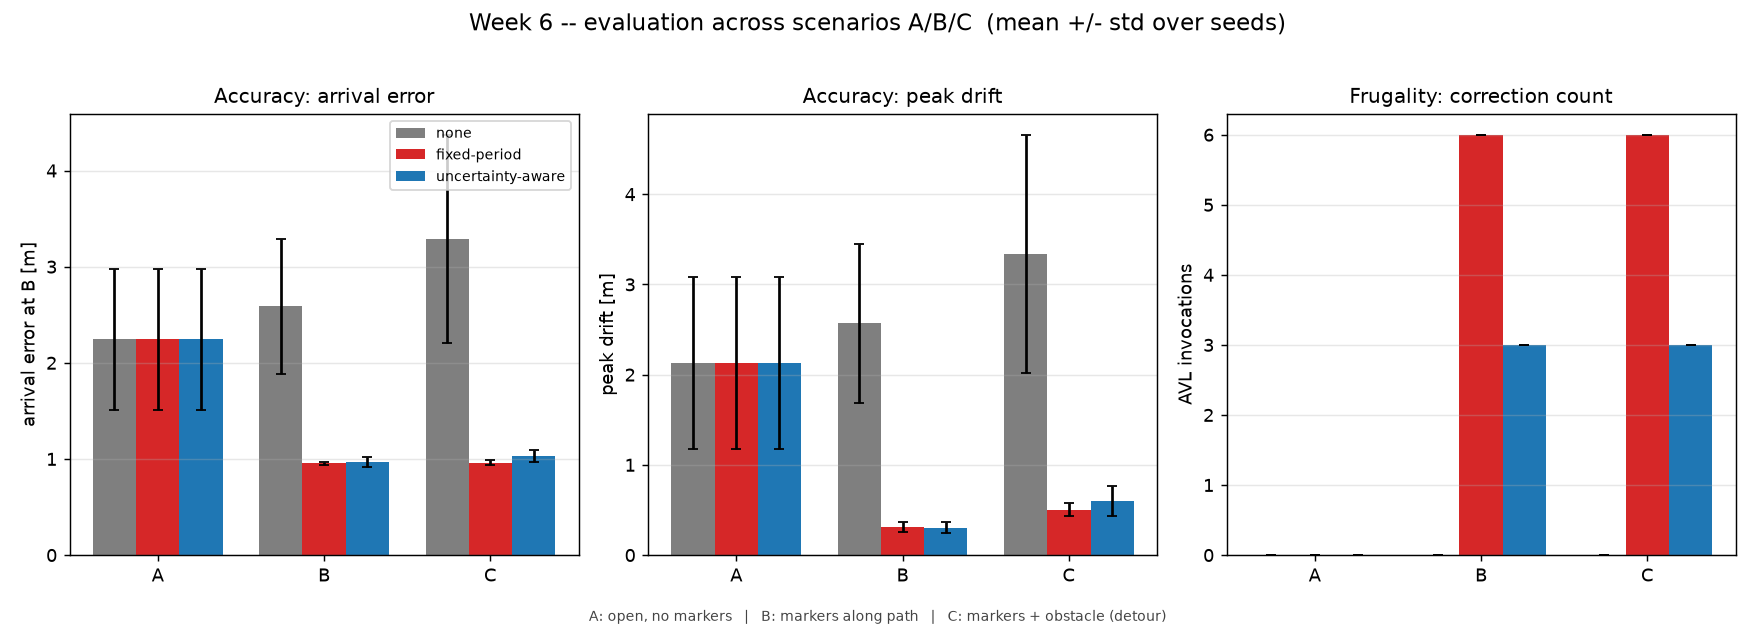
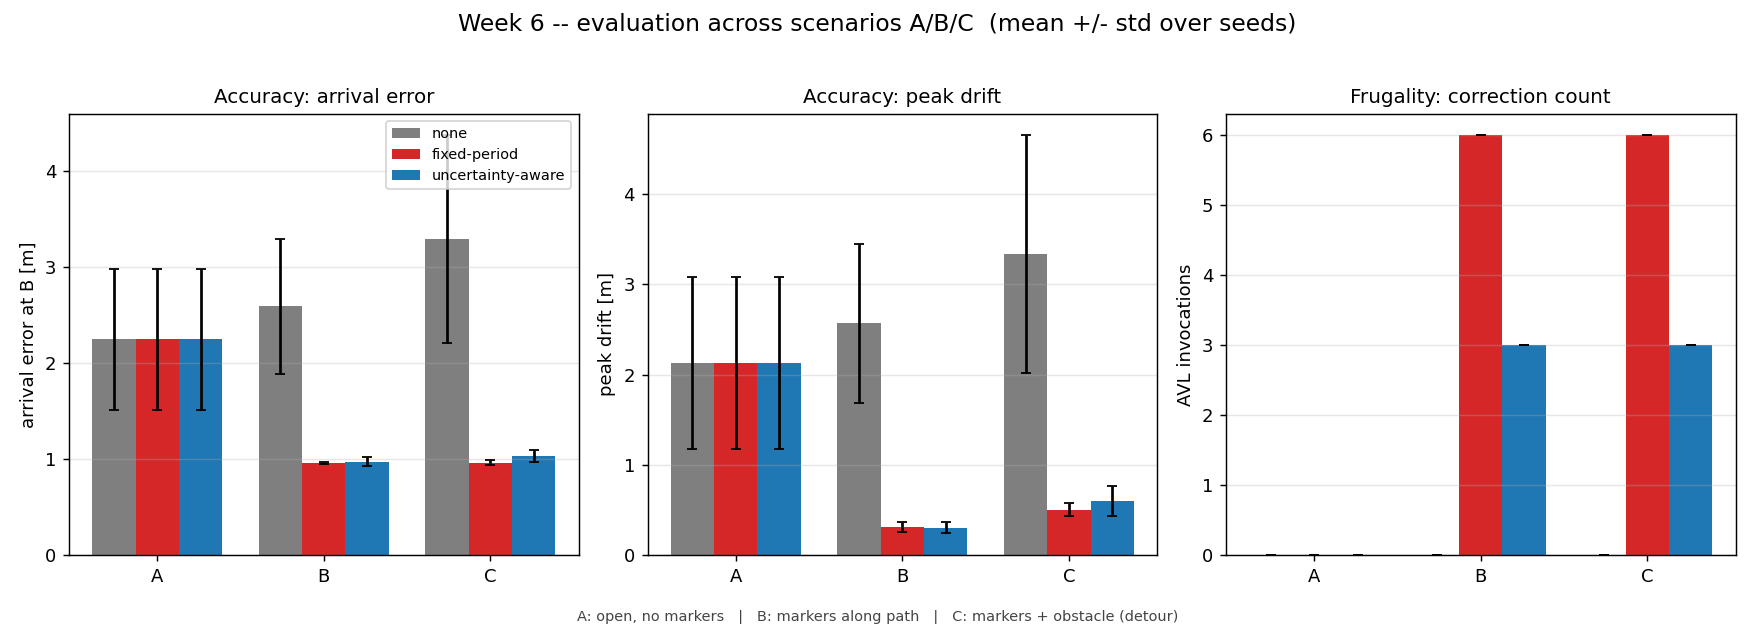
Make the blur-metric test work on OpenCV < 4.7
test_blur_metric.py called aruco.generateImageMarker, which only exists in
OpenCV >= 4.7. On the WSL build (OpenCV 4.5.4) that raised AttributeError and
failed 4 tests. The production code already falls back to drawMarker on older
OpenCV; the test now does the same. Suite: 79 passed on both OpenCV 4.5 and 4.8.

diff --git a/tests/test_blur_metric.py b/tests/test_blur_metric.py
@@ -19,7 +19,11 @@ from core.blur_metric import blur_badness, gaussian_blur, laplacian_sharpness
 
 def _marker_scene():
     adict = aruco.getPredefinedDictionary(aruco.DICT_4X4_50)
-    marker = aruco.generateImageMarker(adict, 0, 300)
+    # generateImageMarker is OpenCV >= 4.7; older builds (e.g. 4.5) use drawMarker
+    if hasattr(aruco, "generateImageMarker"):
+        marker = aruco.generateImageMarker(adict, 0, 300)
+    else:
+        marker = aruco.drawMarker(adict, 0, 300)
     return cv2.copyMakeBorder(marker, 80, 80, 80, 80, cv2.BORDER_CONSTANT, value=255)
 
 
